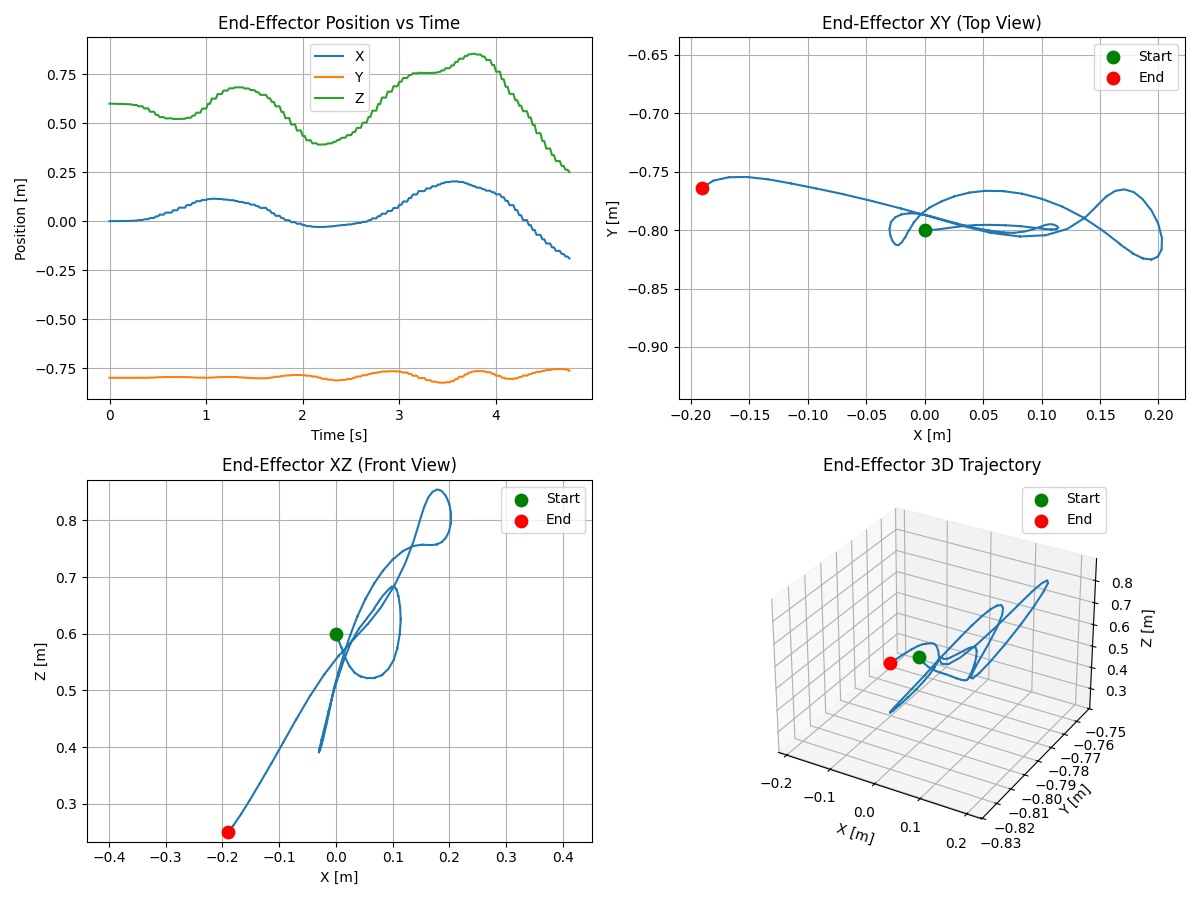
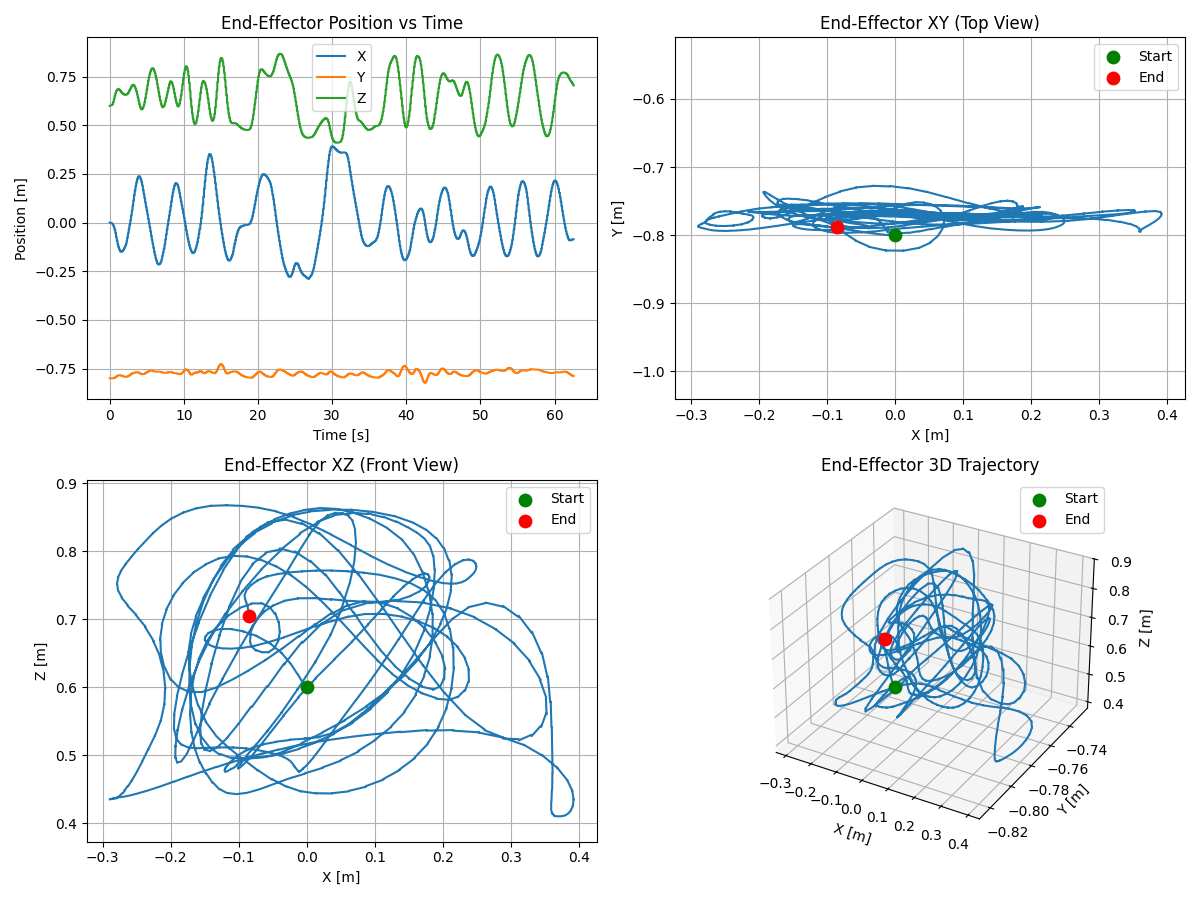
working version

diff --git a/src/combined_main.py b/src/combined_main.py
@@ -21,7 +21,7 @@ except ImportError:
 
 # TODO: MODIFY ALL THE PARAMETERS BELOW BEFORE TESTING
 SAMPLING_RATE = 50 # Hz
-MPC_HORIZON = SAMPLING_RATE // 3 # sec = horizon_samples / sampling_rate
+MPC_HORIZON = SAMPLING_RATE // 6 # sec = horizon_samples / sampling_rate
 # The workspace offset MUST place the robot away from wrist singularities.
 # [0.5, 0.5, 0.5, 0, 0, 0] has zero rotation which aligns wrist axes (singular).
 # Adding a small rotation breaks the singularity and makes IK stable.
@@ -32,8 +32,8 @@ WORKSPACE_OFFSET = pose6_to_T([0, -0.8, 0.6, np.pi/2, 0.05, 0.05])
 #   Joints 0-1 (base, shoulder): 2.094 rad/s  (120 deg/s)
 #   Joints 2-5 (elbow, wrists):  3.142 rad/s  (180 deg/s)
 # Working limits (conservative for safety):
-VJ = 0.4   # rad/s  -- uniform working velocity limit for MPC
-AJ = 0.7   # rad/s² -- uniform working acceleration limit for MPC
+VJ = 0.8   # rad/s  -- uniform working velocity limit for MPC
+AJ = 1   # rad/s² -- uniform working acceleration limit for MPC
 
 # Per-joint working velocity limits (rad/s).
 # UPDATE THESE when you know exact per-joint limits for your setup.
@@ -180,6 +180,7 @@ class SharedTrajectoryState:
         self.shutdown = False
         self.joint_pos = None
         self.home_requested = False
+        self.homing = False
         self.collision_detected = False
         self.collision_reason = ""
         self.prerecorded_flag = False
@@ -312,6 +313,7 @@ class SharedTrajectoryState:
     def request_home(self):
         with self.lock:
             self.home_requested = True
+            self.homing = True
             self.following_trajectory = False
             self.robot_enabled = True
             print(f"[HOME] Homing to {np.degrees(self.home_joints).round(1)} deg")

diff --git a/src/urx_control_thread.py b/src/urx_control_thread.py
@@ -41,9 +41,10 @@ class URXControlThread(threading.Thread):
                 # print("joint angles")
                 # print(self.shared_state.joint_pos)
                 modified_joint_pos = self.robot_model.DHClassicaltoModified(self.shared_state.joint_pos)
-                print(np.linalg.norm(modified_joint_pos - self.shared_state.home_joints))
+                # print(np.linalg.norm(modified_joint_pos - self.shared_state.home_joints))
                 if np.linalg.norm(modified_joint_pos - self.shared_state.home_joints) < 1e-2:
-                    print("Homed")
+                    if self.shared_state.homing:
+                        self.shared_state.homing = False
                 
                 with self.shared_state.lock:
                     shutdown = self.shared_state.shutdown
@@ -106,11 +107,14 @@ class URXControlThread(threading.Thread):
                             break
                         
                         self.send_command(u_curr)
+                    else:
+                        if not self.shared_state.homing:
+                            self.send_zero()
                 except Exception as e:
                     print(f"[URX] Command error: {e}")
                     self.send_zero()
                     time.sleep(0.1)
-
+                    
                 time.sleep(self.dt)
 
         except Exception as e:
@@ -151,7 +155,6 @@ class URXControlThread(threading.Thread):
         )
 
     def send_zero(self):
-        print("sending zero")
         if self.robot is not None:
             self.robot.speedj([0, 0, 0, 0, 0, 0], acc=self.aj, min_time=0.35)
 

diff --git a/src/simulation.py b/src/simulation.py
@@ -138,7 +138,7 @@ class EmbeddedSimEnvironment(object):
         self.e_vec = e_vec
         return t, x_vec, u_vec
 
-    def visualize(self):
+    def visualize(self, number):
         """
         Offline plotting of simulation data for UR10e joint-space model.
         State: q in R^6
@@ -176,9 +176,9 @@ class EmbeddedSimEnvironment(object):
         ax2.legend()
 
         plt.tight_layout()
-        plt.savefig("./tracking_diagnosis/diagnosis.png")
+        plt.savefig(f"./tracking_diagnosis/diagnosis{number}.png")
 
-    def visualize_error(self):
+    def visualize_error(self, number):
         """
         Offline plotting of tracking error for UR10e joint-space model.
         Error: q - q_ref in R^6
@@ -216,9 +216,9 @@ class EmbeddedSimEnvironment(object):
         ax2.legend()
 
         plt.tight_layout()
-        plt.savefig(f"./tracking_diagnosis/error_diagnosis.png")
+        plt.savefig(f"./tracking_diagnosis/error_diagnosis{number}.png")
 
-    def visualize_end_effector(self):
+    def visualize_end_effector(self, number):
         """Compute FK for every simulated joint state and plot end-effector XYZ."""
         if self.ran_iterations == 0:
             print("Please run the simulation first with the method 'run'.")
@@ -282,4 +282,4 @@ class EmbeddedSimEnvironment(object):
         ax_3d.legend()
 
         plt.tight_layout()
-        plt.savefig("./tracking_diagnosis/end_effector.png")
+        plt.savefig(f"./tracking_diagnosis/end_effector{number}.png")

diff --git a/src/trajectory_tracking.py b/src/trajectory_tracking.py
@@ -52,9 +52,10 @@ class MPCSimulationThread(threading.Thread):
 
             self.results = {'t': t, 'y': y, 'u': u, 'env': sim_env_tracking}
             self.status = "completed"
-            sim_env_tracking.visualize()
-            sim_env_tracking.visualize_error()
-            sim_env_tracking.visualize_end_effector()
+            graph_number = np.random.randint(1, 1000)
+            sim_env_tracking.visualize(graph_number)
+            sim_env_tracking.visualize_error(graph_number)
+            sim_env_tracking.visualize_end_effector(graph_number)
             print("[MPC Thread] Simulation completed successfully!")
 
         except Exception as e:
